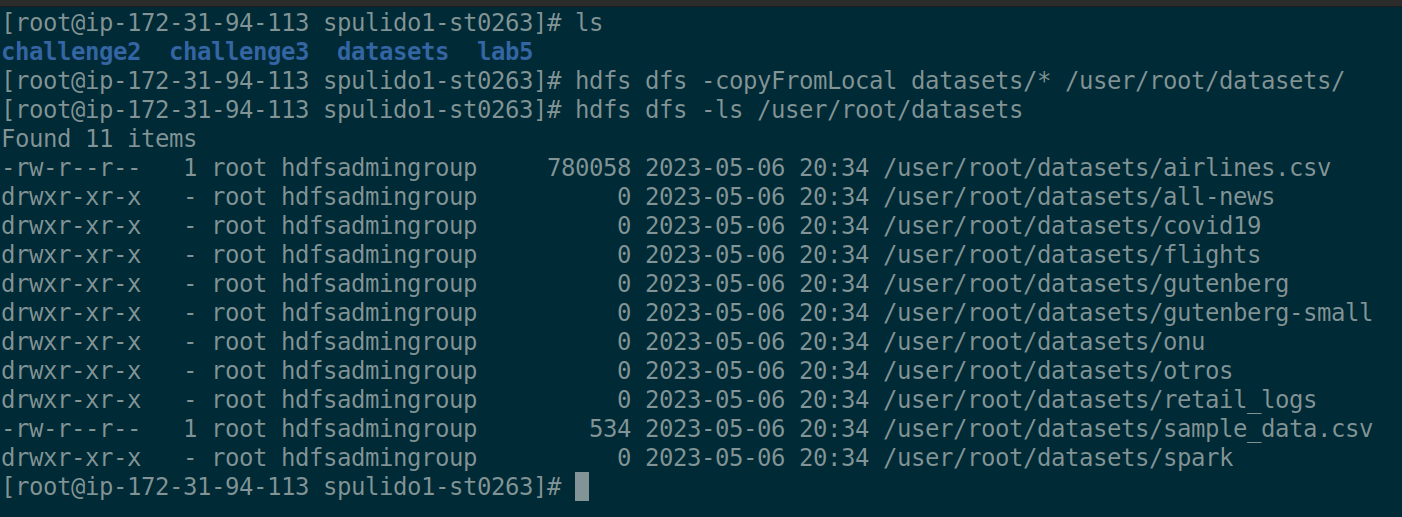
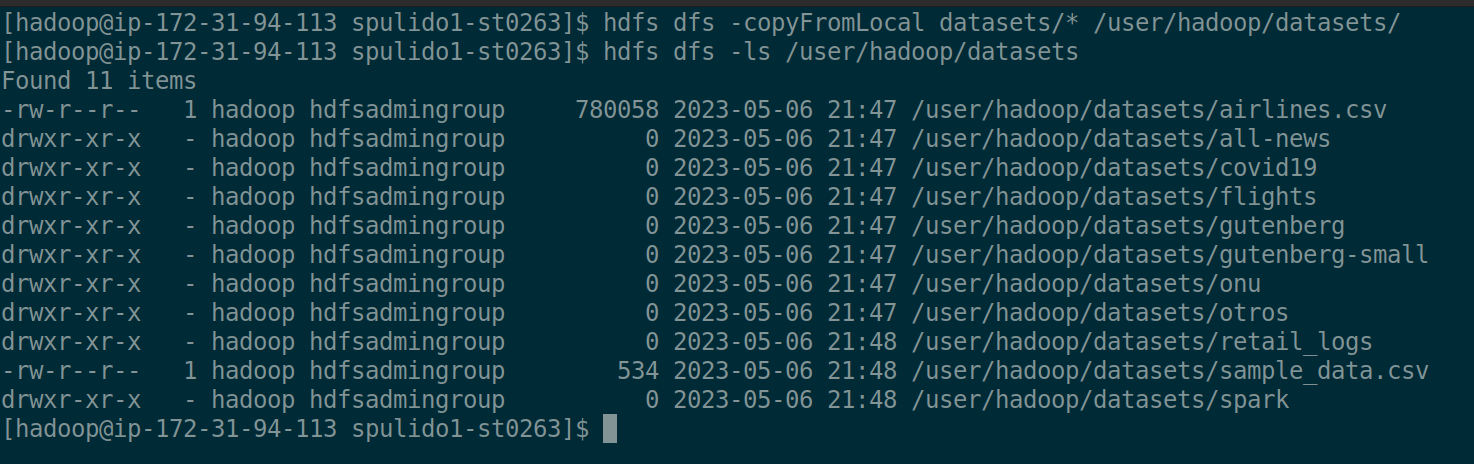
Update assets

Changed region(s): [[0.0, 0.0, 0.9815, 0.9655]]

diff --git a/lab5/README-52.md b/lab5/README-52.md
@@ -22,7 +22,7 @@ The cluster documentation was already documented [here](README-51.md).
 
 ## 3.2) Create datasets dir
 
-After running `hdfs dfs -mkdir /user/root/datasets` we can list our newly created dir:
+After running `hdfs dfs -mkdir /user/hadoop/datasets` we can list our newly created dir:
 
 ![datasets](assets/5.2/datasets-ls.png)
 
